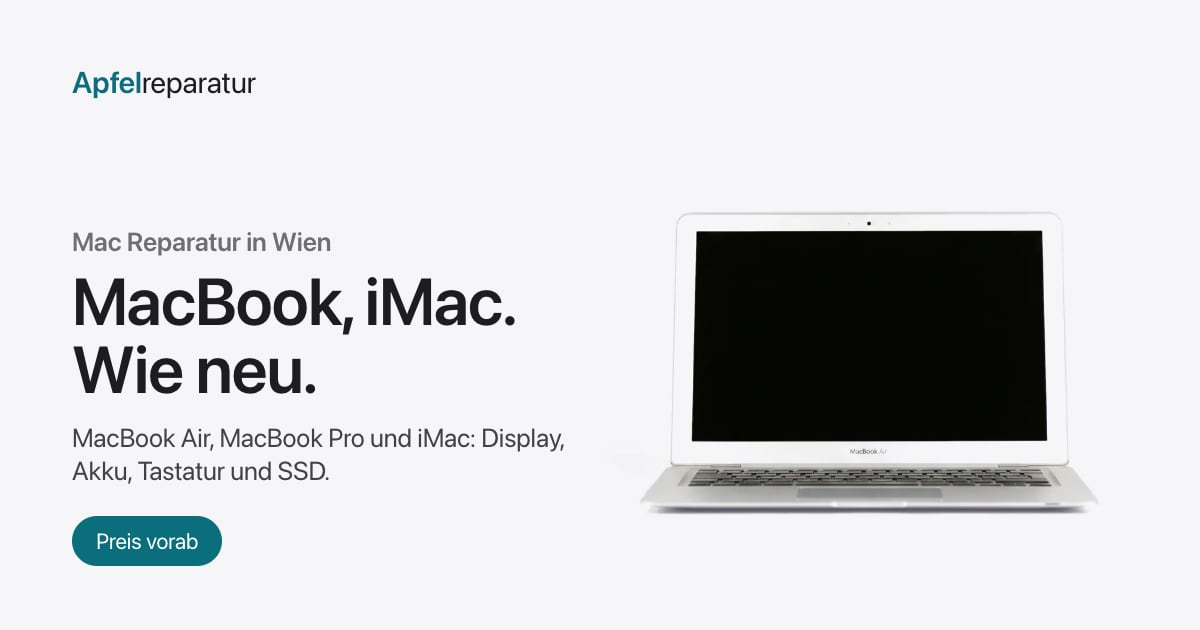
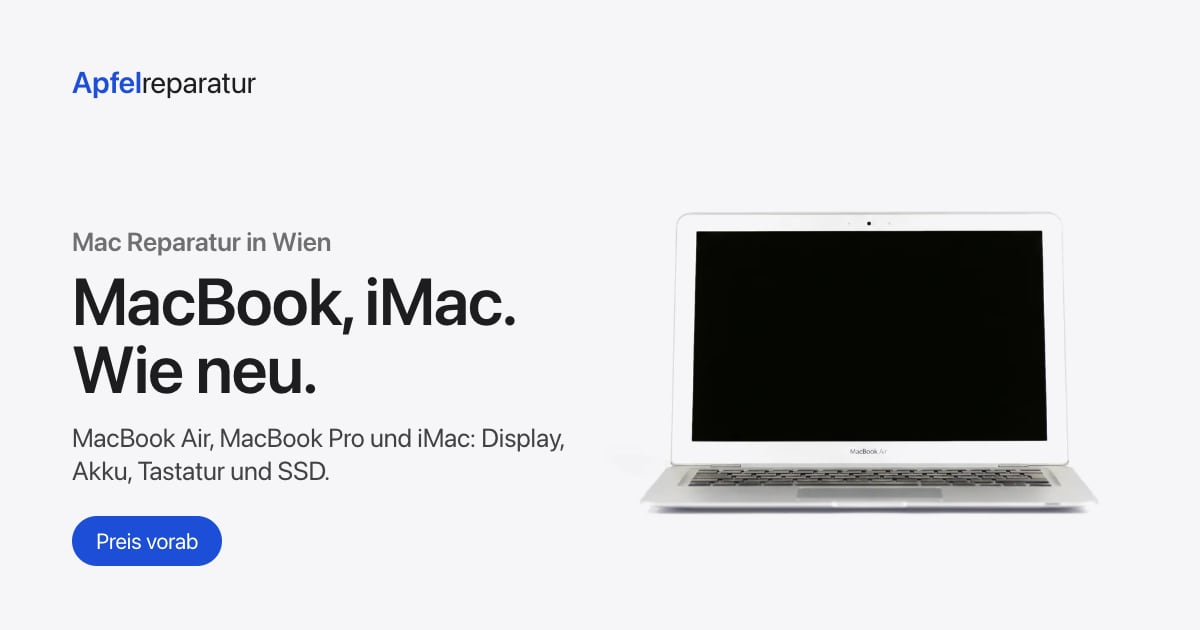
style: switch accent from petrol to blue
Deeper than Apple blue (#0071e3) so the site still does not read as
apple.com. Link previews re-rendered and cache-busted (?v=4).

Changed region(s): [[0.0617, 0.8143, 0.185, 0.9048], [0.0617, 0.1206, 0.1233, 0.1508]]

diff --git a/scripts/og/card.html b/scripts/og/card.html
@@ -21,13 +21,13 @@
 	.seamless img { object-fit: cover; }
 	.copy { position: absolute; left: 72px; top: 64px; bottom: 64px; width: 500px; display: flex; flex-direction: column; }
 	.mark { font-size: 30px; font-weight: 400; }
-	.mark b { font-weight: 600; color: #0b6e7d; }
+	.mark b { font-weight: 600; color: #1d4ed8; }
 	.eyebrow { margin-top: auto; font-size: 26px; font-weight: 600; color: #6e6e73; }
 	h1 { margin-top: 10px; font-size: 66px; line-height: 1.04; font-weight: 600; letter-spacing: -0.015em; }
 	.sub { margin-top: 18px; font-size: 26px; line-height: 1.25; color: #424245; }
 	.pill {
 		margin-top: 30px; align-self: flex-start; padding: 12px 24px; border-radius: 999px;
-		background: #0b6e7d; color: #fff; font-size: 22px;
+		background: #1d4ed8; color: #fff; font-size: 22px;
 	}
 </style>
 </head>

diff --git a/src/lib/mail.ts b/src/lib/mail.ts
@@ -11,7 +11,7 @@ export type MailContent = {
 
 const esc = (v: string) => v.replace(/[&<>"']/g, (c) => ({ "&": "&amp;", "<": "&lt;", ">": "&gt;", '"': "&quot;", "'": "&#39;" })[c]!);
 const font = "-apple-system,BlinkMacSystemFont,'Helvetica Neue',Helvetica,Arial,sans-serif";
-const ink = "#1d1d1f", muted = "#6e6e73", line = "#d2d2d7", gray = "#f5f5f7", accent = "#0b6e7d";
+const ink = "#1d1d1f", muted = "#6e6e73", line = "#d2d2d7", gray = "#f5f5f7", accent = "#1d4ed8";
 
 export function mailText(c: MailContent): string {
 	const parts = [c.title, c.lead];

diff --git a/src/styles/global.css b/src/styles/global.css
@@ -10,12 +10,12 @@
 	--night-muted: #86868b;
 	--on-night: #f5f5f7;
 	--night-2: #161617;
-	--accent: #0b6e7d;
-	--accent-hover: #095c69;
-	--accent-ring: rgba(11, 110, 125, 0.22);
-	--accent-soft: #e6f3f5;
-	--link: #0a6876;
-	--link-dark: #6fd0de;
+	--accent: #1d4ed8;
+	--accent-hover: #1a43b8;
+	--accent-ring: rgba(29, 78, 216, 0.22);
+	--accent-soft: #eaf0fd;
+	--link: #1d4ed8;
+	--link-dark: #8ab4ff;
 	--ok: #1d8a3a;
 	--err: #e30000;
 	--radius: 18px;

diff --git a/src/lib/seo.ts b/src/lib/seo.ts
@@ -44,7 +44,7 @@ export function organizationLd() {
 		name: business.brand,
 		url: SITE,
 		logo: `${SITE}/icon-512.png`,
-		image: `${SITE}/og/default.jpg?v=3`,
+		image: `${SITE}/og/default.jpg?v=4`,
 		description: "Unabhängiger Reparaturbetrieb für iPhone, iPad und Mac in Wien, mit Original Apple Teilen, Datenrettung und Datenübertragung.",
 		email: business.email,
 		telephone: intl(business.hotline),

diff --git a/AGENTS.md b/AGENTS.md
@@ -8,7 +8,7 @@ Stack: EmDash (Astro SSR) on Cloudflare Workers + D1 + R2. npm, not pnpm.
 - **Brand of Mobi GmbH (MobiNil).** Name Mobi GmbH only where legally required (Impressum, Datenschutz, AGB, Widerruf, mail footer). Never "MobiNil", never in marketing copy.
 - **Apple trademarks:** never use the Apple logo or an apple-shaped mark as our own branding/graphics, no Apple renders or copy, no Apple slogans. Keep the trademark/independence disclaimer (Footer, Impressum). Product photos may show the Apple logo on the device (owner decision 2026-10-25).
 - **Claims must match MobiNil reality:** no appointment, price before repair (no "kostenloser KV"), 3 months warranty (`business.warrantyMonths`). "Original Apple Teile" always with footnote 1. No board-level/soldering/microscope claims (GISA licence excludes Mechatroniker work). No prices on this site.
-- **Design:** accent is petrol `--accent` (#0b6e7d), deliberately not Apple blue, so the site does not read as apple.com. Product tiles are light (`--gray`) with product shots on matching light grey (bg colour-corrected to #f5f5f7); `--night` is only for the few dark sections. Tokens + motion classes in `src/styles/global.css` (`data-reveal`, `.rise`, `.sd-*` scroll animations, reduced-motion safe). System fonts only, no tracking, so no cookie banner.
+- **Design:** accent is blue `--accent` (#1d4ed8), deeper than Apple blue (#0071e3), so the site does not read as apple.com. Product tiles are light (`--gray`) with product shots on matching light grey (bg colour-corrected to #f5f5f7); `--night` is only for the few dark sections. Tokens + motion classes in `src/styles/global.css` (`data-reveal`, `.rise`, `.sd-*` scroll animations, reduced-motion safe). System fonts only, no tracking, so no cookie banner.
 - **SEO target "iPhone Reparatur Wien":** JSON-LD in `src/lib/seo.ts`; new pages go into `src/pages/sitemap.xml.ts`. Repair landing pages `/<gerät>/<reparatur>` come from `src/lib/repair-pages.ts` (Mac pages say "MacBook").
 - **AI agents:** `/llms.txt` + `/llms-full.txt` are generated from the page data in `src/lib/llms.ts` (no static copy); `robots.txt.ts` allows search/AI bots by name. Forms carry WebMCP `toolname` attributes.
 - **Lighthouse 100/100/100/100** (mobile + desktop, prod build via `astro build --outDir dist-lh` + `wrangler dev -c dist-lh/server/wrangler.json --persist-to .wrangler/state`). Keep it: hero image must not start at opacity 0 (LCP), links inside running text are underlined, text colours ≥ 4.5:1 (highlights use `--accent`, no extra colours). Photos ship as `public/img/<name>-{800,1200,1600,2400}.webp`.
